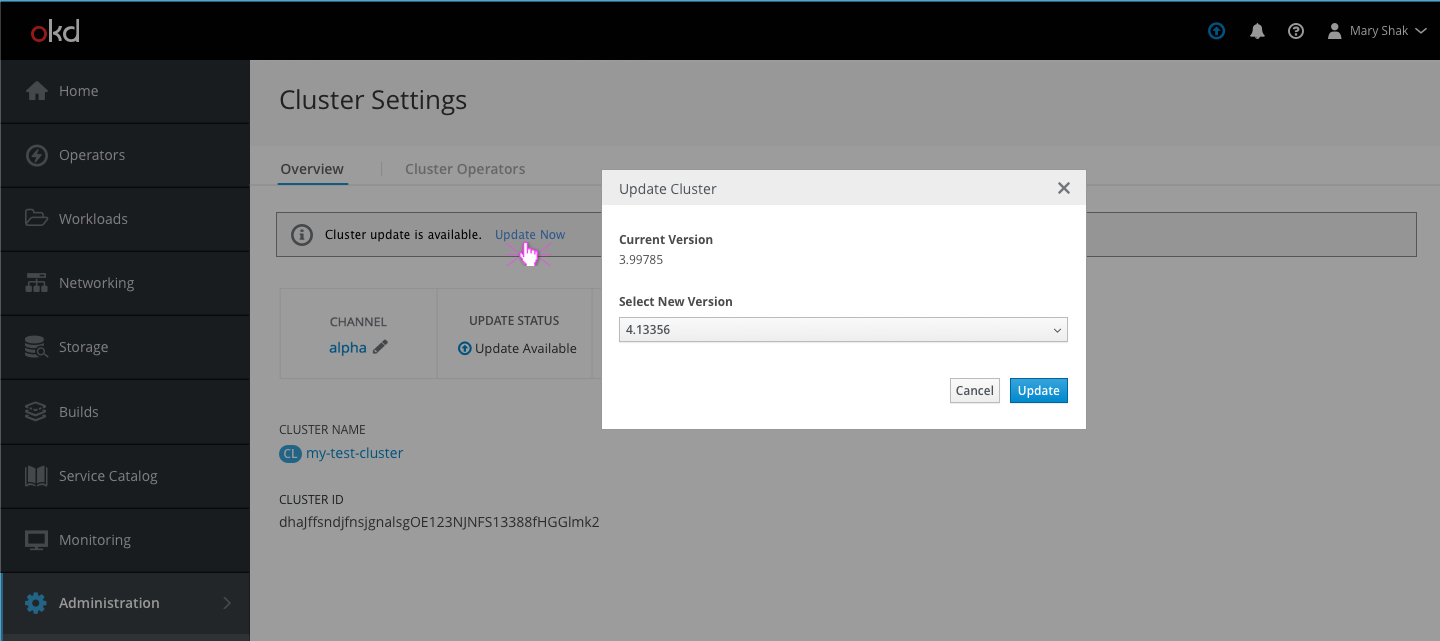
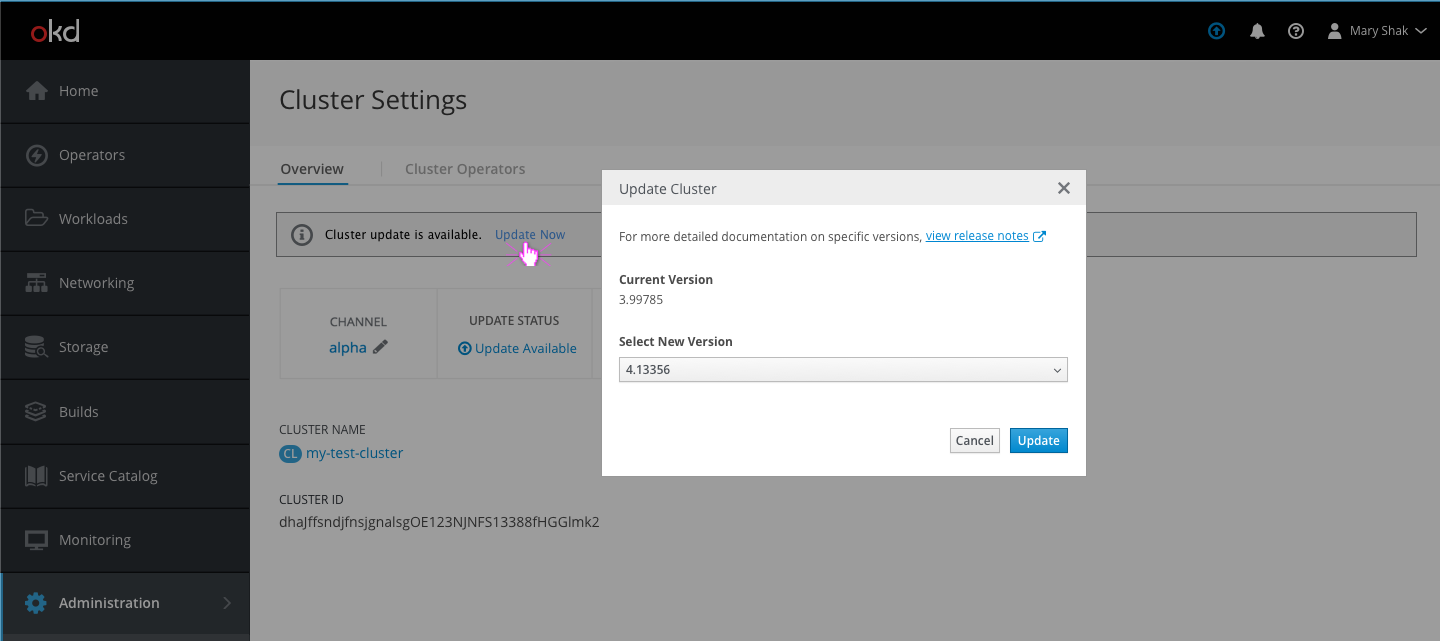
Adding details around the update flow.

Changed region(s): [[0.4062, 0.5616, 0.7812, 0.7488], [0.4375, 0.3432, 0.7188, 0.5928], [0.3438, 0.5304, 0.4062, 0.5616]]

diff --git a/web-console/4.0-designs/cluster-settings/cluster-settings.md b/web-console/4.0-designs/cluster-settings/cluster-settings.md
@@ -48,6 +48,7 @@
 
 - For clusters on currently going through an update, the pficon-in-progress will be displayed to the left of the "Updating" status.
 - An informational inline notification will also appear at the top of the page telling the user the update is in progress.
+- The link at the end of the inline notification will bring users to the Cluster Operators tab where they can monitor progress more closely. 
 
 **Error Retrieving Updates**
 ![3](img/overivew-error.png)
@@ -58,14 +59,16 @@
 **Update Available**
 ![4](img/overivew-has-update.png)
 
-- For clusters with new updates available, a blue fa-arrow-circle-o-up will be displayed to the left of the "Update Available" status.
+- For clusters with new updates available, a blue fa-arrow-circle-o-up will be displayed to the left of the "Update Available" link.
 - An informational inline notification will also appear at the top of the page telling the user the update is available with a link to "Update Now."
 - **Note** When an Update is available there will also be the same blue fa-arrow-circle-o-up icon in the masthead to inform users of this update. Clicking the icon will bring the user to this cluster settings overview page where they can take action.
 
 ![5](img/overivew-has-update-2.png)
 
-- Clicking the link opens a modal with a dropdown of versions for the user to select from.
+- Clicking either link opens a modal with a dropdown of versions for the user to select from.
+- If users need documentation help regarding the versions, they can click the link in the instructions to view the release notes, which opens in a separate  window.
 - Once the user selects the version to update to, they can click save and the status should change shortly to in-progress.
+
 
 - If a user opens the about modal when an update is available, in addition to the blue masthead icon, users will get an inline notification below the "version" section to explain the update exists and link users directly to this cluster settings page to take action.
 
